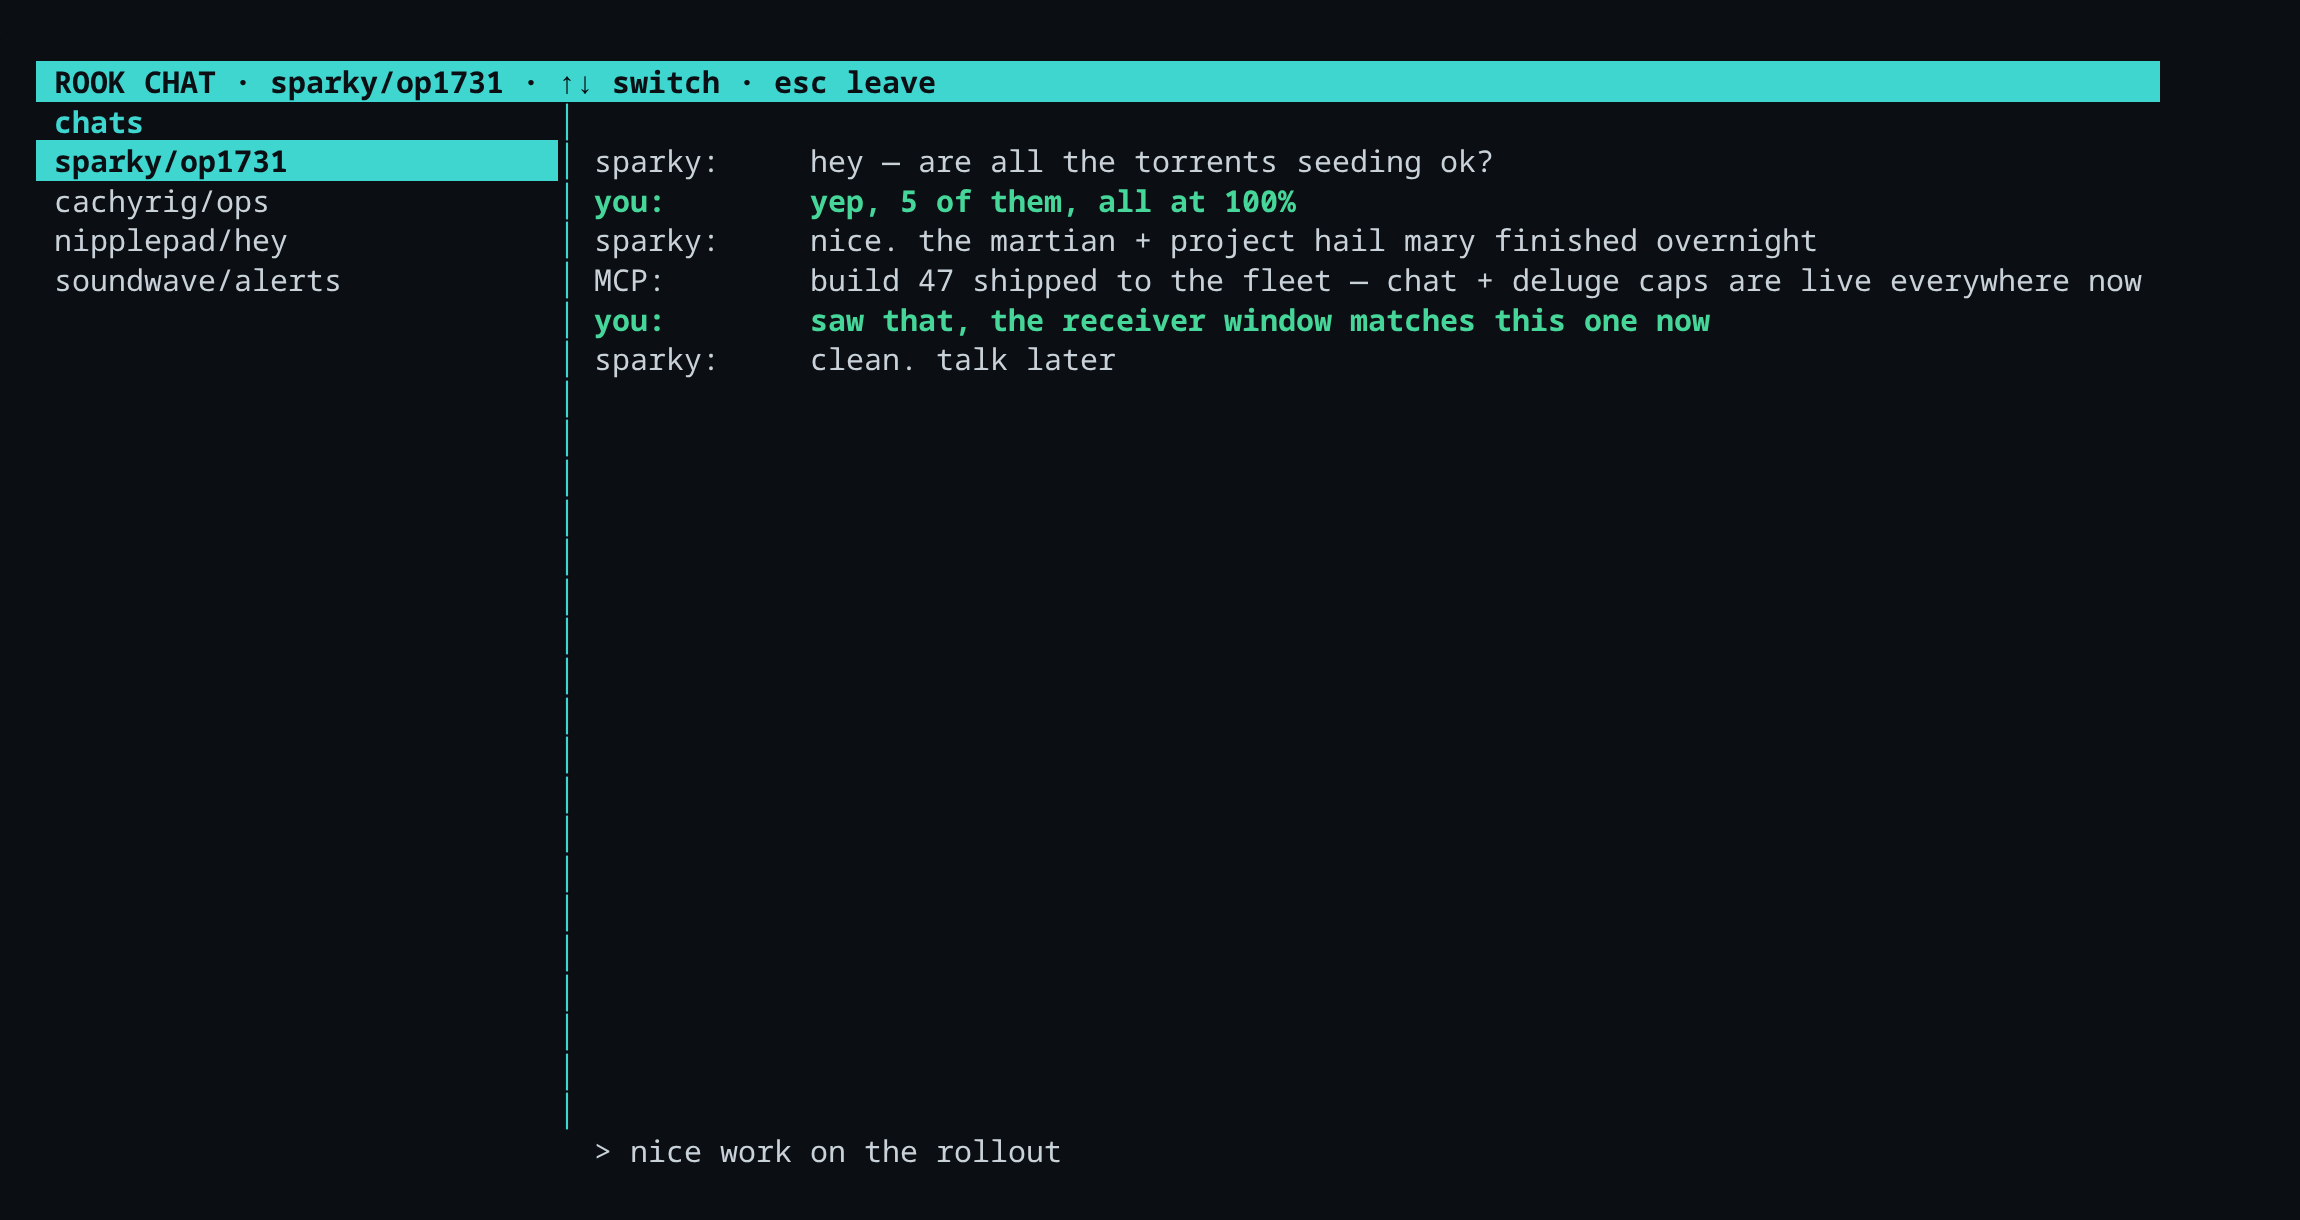
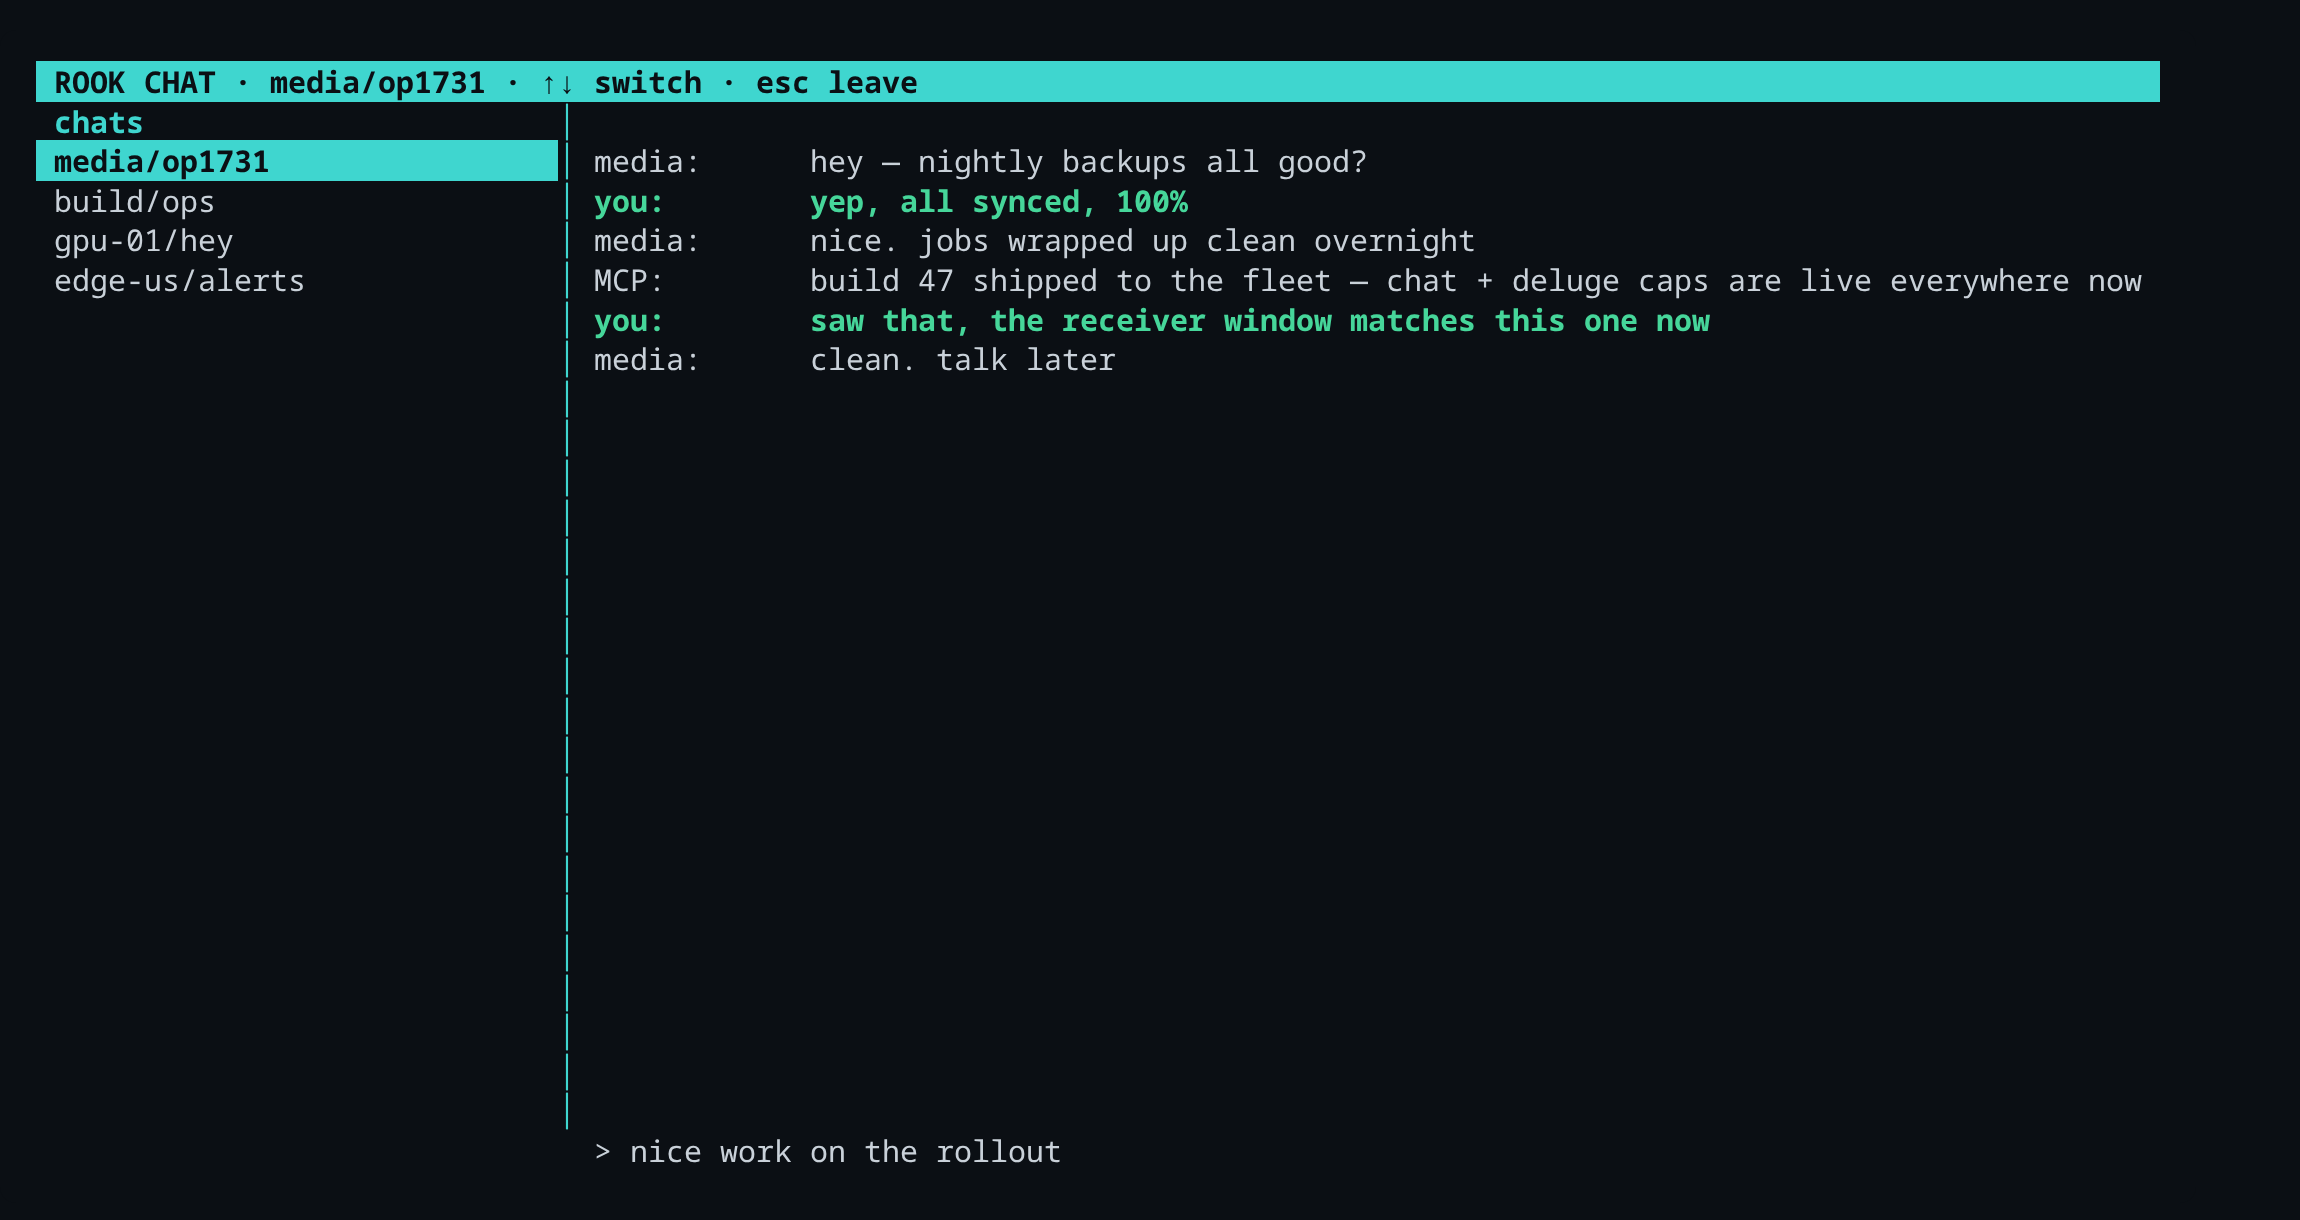
docs: drop the agent section + hermes/macOS refs; generic mock data in screenshots
Removes the agent/hermes/Discord/memory content and the not-yet-supported macOS
platform claim; reframes MCP as 'via MCP' rather than Claude-specific. Screenshots
regenerated with fictional worker names, a generic domain, and neutral chat text
(no real hostnames/topology or media titles).

Claude-Session: https://claude.ai/code/session_017y4LxLxtKvEMUAApKavLQg

diff --git a/README.md b/README.md
@@ -1,10 +1,8 @@
 # Rook
 
-**A self-updating mesh of worker agents you drive from a web dashboard, a terminal control panel, or an MCP — over an encrypted peer-to-peer band.**
+**A self-updating mesh of worker agents you drive from a web dashboard, a terminal control panel, or via MCP — over an encrypted peer-to-peer band.**
 
-Rook turns any set of machines — Linux, Windows, macOS, Android/Termux, even an ESP32 dongle — into a **band**: a fleet of lightweight workers that expose *capabilities* (run a shell command, grab a screenshot, drive HID/KVM, manage torrents, chat, …) over an encrypted mesh. You control the whole fleet from a browser, a terminal, or from Claude via MCP — and the fleet **updates itself over the air**.
-
-It grew out of a personal AI agent (Discord bot + memory kernel, still here — see [The agent](#the-agent)), but the center of gravity today is the band and its control planes.
+Rook turns any set of machines — Linux, Windows, Android/Termux, even an ESP32 dongle — into a **band**: a fleet of lightweight workers that expose *capabilities* (run a shell command, grab a screenshot, drive HID/KVM, manage torrents, chat, …) over an encrypted mesh. You control the whole fleet from a browser, a terminal, or via MCP — and the fleet **updates itself over the air**.
 
 ![Rook dashboard](docs/img/dashboard.png)
 
@@ -18,7 +16,6 @@ It grew out of a personal AI agent (Discord bot + memory kernel, still here — 
 - [OTA self-update](#ota-self-update)
 - [Security](#security)
 - [Install](#install)
-- [The agent](#the-agent)
 - [Repository layout](#repository-layout)
 
 ---
@@ -33,11 +30,11 @@ A **band** is a group of workers that share one pre-shared key (PSK). Everything
 - **Stable identity.** Each worker persists a `worker_id` across restarts, so it keeps one row in the dashboard and can be durably addressed.
 
 ```
-  browser ─┐                              ┌─ worker: cachyrig  (shell, screenshot, hid, hermes, …)
-  rook TUI ─┼─ dashboard / MCP ─ hub ─────┼─ worker: sparky    (deluge, screenshot, hid, …)
-  Claude ──┘        (relay)               ├─ worker: soundwave  ┐ Proxmox host, one worker per LXC
-                                          ├─ worker: pihole     ┤ (pihole / neo4j / postgres / …)
-                                          └─ worker: rookdongle  ESP32 firmware (KVM/HID over BLE)
+  browser  ─┐                             ┌─ worker: gateway   (shell · file · info)
+  rook band ─┼─ control plane ─ hub ──────┼─ worker: media     (deluge · screenshot · hid)
+  MCP       ─┘   (relay, no keys)         ├─ worker: db-host    ┐ Proxmox host, one worker
+                                          ├─ worker: db-01      ┤ per LXC (db · cache · dns)
+                                          └─ worker: kvm-dongle  ESP32 firmware (HID/KVM)
 ```
 
 ## Capabilities
@@ -56,8 +53,6 @@ Built-in plugins:
 | `kvm.* · bthid.* · serial.*` | ESP32 dongle: USB-HID, Bluetooth-HID, serial passthrough |
 | `deluge.*` | list / add / pause / resume / remove torrents; pull files over the band |
 | `chat.* · msg.*` | two-way chat and one-way desktop notifications |
-| `claude-history.*` | search / export local Claude Code sessions |
-| `hermes.*` | drive a co-located [hermes](#the-agent) agent (chat, run, skills, memory) |
 | `worker.*` | `restart`, `reconfigure`, signed `apply`/`deauth`, `hold`, runtime `plugin.enable/disable` |
 | `caps.describe` | introspect every cap's args (powers the call forms) |
 
@@ -99,7 +94,7 @@ Two flavors, both worker-gated:
 
 ### MCP
 
-Expose the band to Claude as tools:
+Expose the band as MCP tools:
 
 ```
 rook_workers()                       # live roster
@@ -127,7 +122,7 @@ Ship a build → commit → rebuild the signed bundle → the running push loop 
 
 ## Install
 
-**A worker** (Linux / macOS / Termux):
+**A worker** (Linux / Termux):
 
 ```sh
 curl -fsSL https://<your-host>/worker | bash
@@ -135,34 +130,16 @@ curl -fsSL https://<your-host>/worker | bash
 
 Windows (PowerShell) and a native Android APK are served from the same host (`/worker.py`, `/apk`). The **`rook band` TUI** installs with `curl -fsSL https://<your-host>/rook | bash` (see above).
 
-## The agent
-
-Rook's original half is a personal AI agent, still included and usable:
-
-- **Multi-model routing** between local LLMs (LM Studio) and Anthropic (Claude), switchable in natural language, with OAuth for Claude Code subscriptions.
-- **3-tier memory kernel** — volatile / working / concrete fact tiers with automatic extraction, promotion, and persistence.
-- **Discord bot** — a full tool-calling agent with editable status messages and cross-channel awareness.
-- **Sub-agents, persistent terminals, a cron/one-shot job scheduler, and a knowledge graph** (KuzuDB alongside SQLite).
-
-```sh
-git clone https://github.com/Bake-Ware/rook.git && cd rook && pip install -e .
-python -m rook          # Discord mode
-python -m rook --cli    # local CLI
-```
-
-Agent workers expose themselves to the band via the `hermes.*` capabilities, so you can chat with or task an agent from the dashboard, the TUI, or MCP.
-
 ## Repository layout
 
 ```
 rook/
   worker/          band worker: core, transports (telesthete), plugins, OTA self-update
     plugins/       shell, file, info, screenshot, hid, pikvm, deluge, chat, msg, …
-  band_mcp/        band client + the R00K MCP server (rook_workers/caps/call)
+  band_mcp/        band client + the MCP server (rook_workers/caps/call)
   remote/          installer / controller (dashboard API, OTA build + push, deauth)
   web/             the dashboard (index.html)
   cli/             band_tui.py — the `rook band` terminal control panel
-  core/ modules/ interfaces/   the agent (models, memory, Discord, tools)
 firmware/          ESP32 T-Dongle-S3 firmware (telesthete over UDP, BLE/USB HID)
 docs/img/          screenshots
 ```
